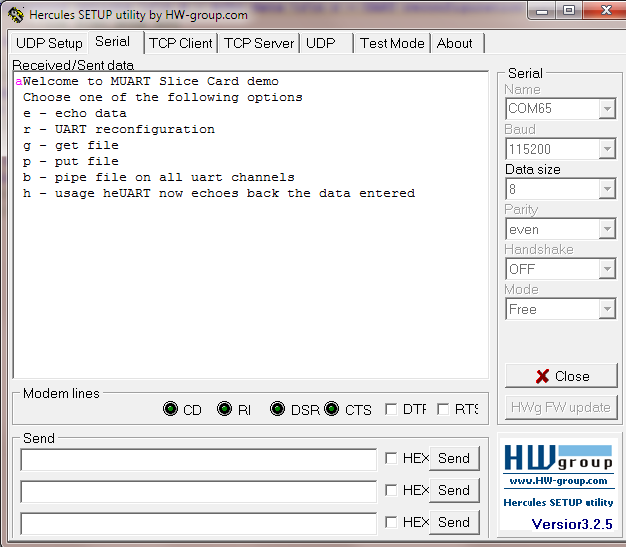
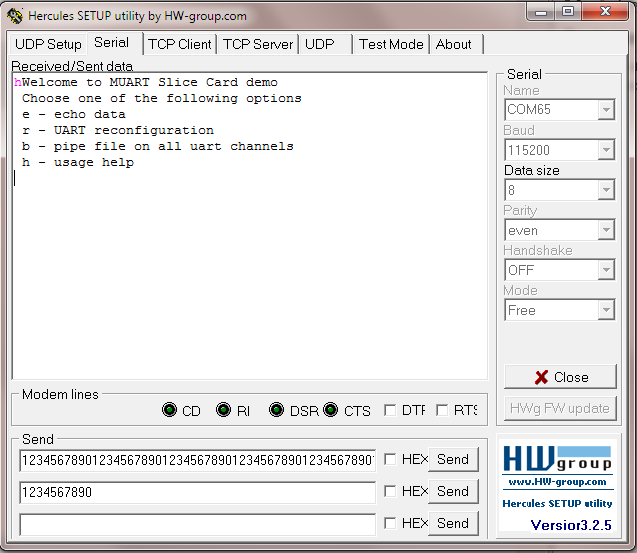
updated with correcetd timing

Changed region(s): [[0.0, 0.0, 1.0, 1.0]]

diff --git a/app_sk_muart_com_demo/src/util.c b/app_sk_muart_com_demo/src/util.c
@@ -13,7 +13,7 @@ char console_messages[NUM_CONSOLE_MSGS][CONSOLE_MSGS_MAX_MEN] = {
 		"Press any key to fetch file from UART \r\n", 			//IDX_PUT_FILE_MSG
 		"Buffered file data is lost \r\n", 						//IDX_FILE_DATA_LOST_MSG
 		"Invalid request\r\n Use 'get' option before using 'put' option \r\n",	//IDX_INVALID_PUT_REQUEST
-		"\r\nTotal Data Transfer Time per byte(in millisec): \r\n",		//IDX_FILE_STATS
+		"\r\nTotal Data Transfer Time (in microsec): \r\n",		//IDX_FILE_STATS
 		"UART is in Command mode. Press 'h' for help\r\n",		//IDX_CMD_MODE_MSG
 		"UART is in Data mode\r\n",								//IDX_DATA_MODE_MSG
 		"Invalid choice. Press 'h' for help\r\n",					//IDX_INVALID_USAGE

diff --git a/app_sk_muart_com_demo/doc_quickstart/quickstart.rst b/app_sk_muart_com_demo/doc_quickstart/quickstart.rst
@@ -105,7 +105,7 @@ Demo Application
    #. Press any key on console. A user menu will be displayed
    #. Key in ``e`` to enter echo mode. Type in any character from thekey board and application echoes the key pressed. In order to get back to user menu, press ``Esc`` key.
    #. Key in ``r`` to enter reconfiguration mode. Key in new baud rate value (select one of the values from 115200, 57600, 38400, 19200, 9600, 4800, 600) followed by CR (Enter) key. The UART will be reconfigured (XDE console will display the value entered). The terminal console should be reopened with the new selected baud rate. Press ``h`` to display user menu.
-   #. Key in ``b`` in order to pipe data trough UART channels 1-7. Type in the Console widow and then press Ctrl+D to send the data through 7 channels and recive it for display. To send a file, select the ``File Send`` option in Console SW (Right click in Hercules) and select the file. Then press CTRL+D from console to send file through channels 1-7 and receive it. Timing information is also displayed. Hardware setup for Pipe option should be as shown in the diagram, loop all the Uart channels(like Channel 7 Shown in the figure) except channel 0. If the connection to any of the channel is disconnected you will not see data received back and a message is displayed on the terminal saying that Muart pipe is broken.However, the timing information is not accurate for very small transfer sizes(characters less than 8).
+   #. Key in ``b`` in order to pipe data trough UART channels 1-7. Type in the Console widow and then press Ctrl+D to send the data through 7 channels and recive it for display. To send a file, select the ``File Send`` option in Console SW (Right click in Hercules) and select the file. Then press CTRL+D from console to send file through channels 1-7 and receive it. Timing information is also displayed. Hardware setup for Pipe option should be as shown in the diagram, loop all the Uart channels(like Channel 7 Shown in the figure) except channel 0. If the connection to any of the channel is disconnected you will not see data received back and a message is displayed on the terminal saying that Muart pipe is broken.However, the timing information is not accurate as it depends on transmission time, number of channels and size of data.
    #. Key in ``h`` in order to display user menu. This help is displayed any time during execution by pressing ``Esc`` key followed by ``h`` 
 
 .. figure:: images/help_menu.png
